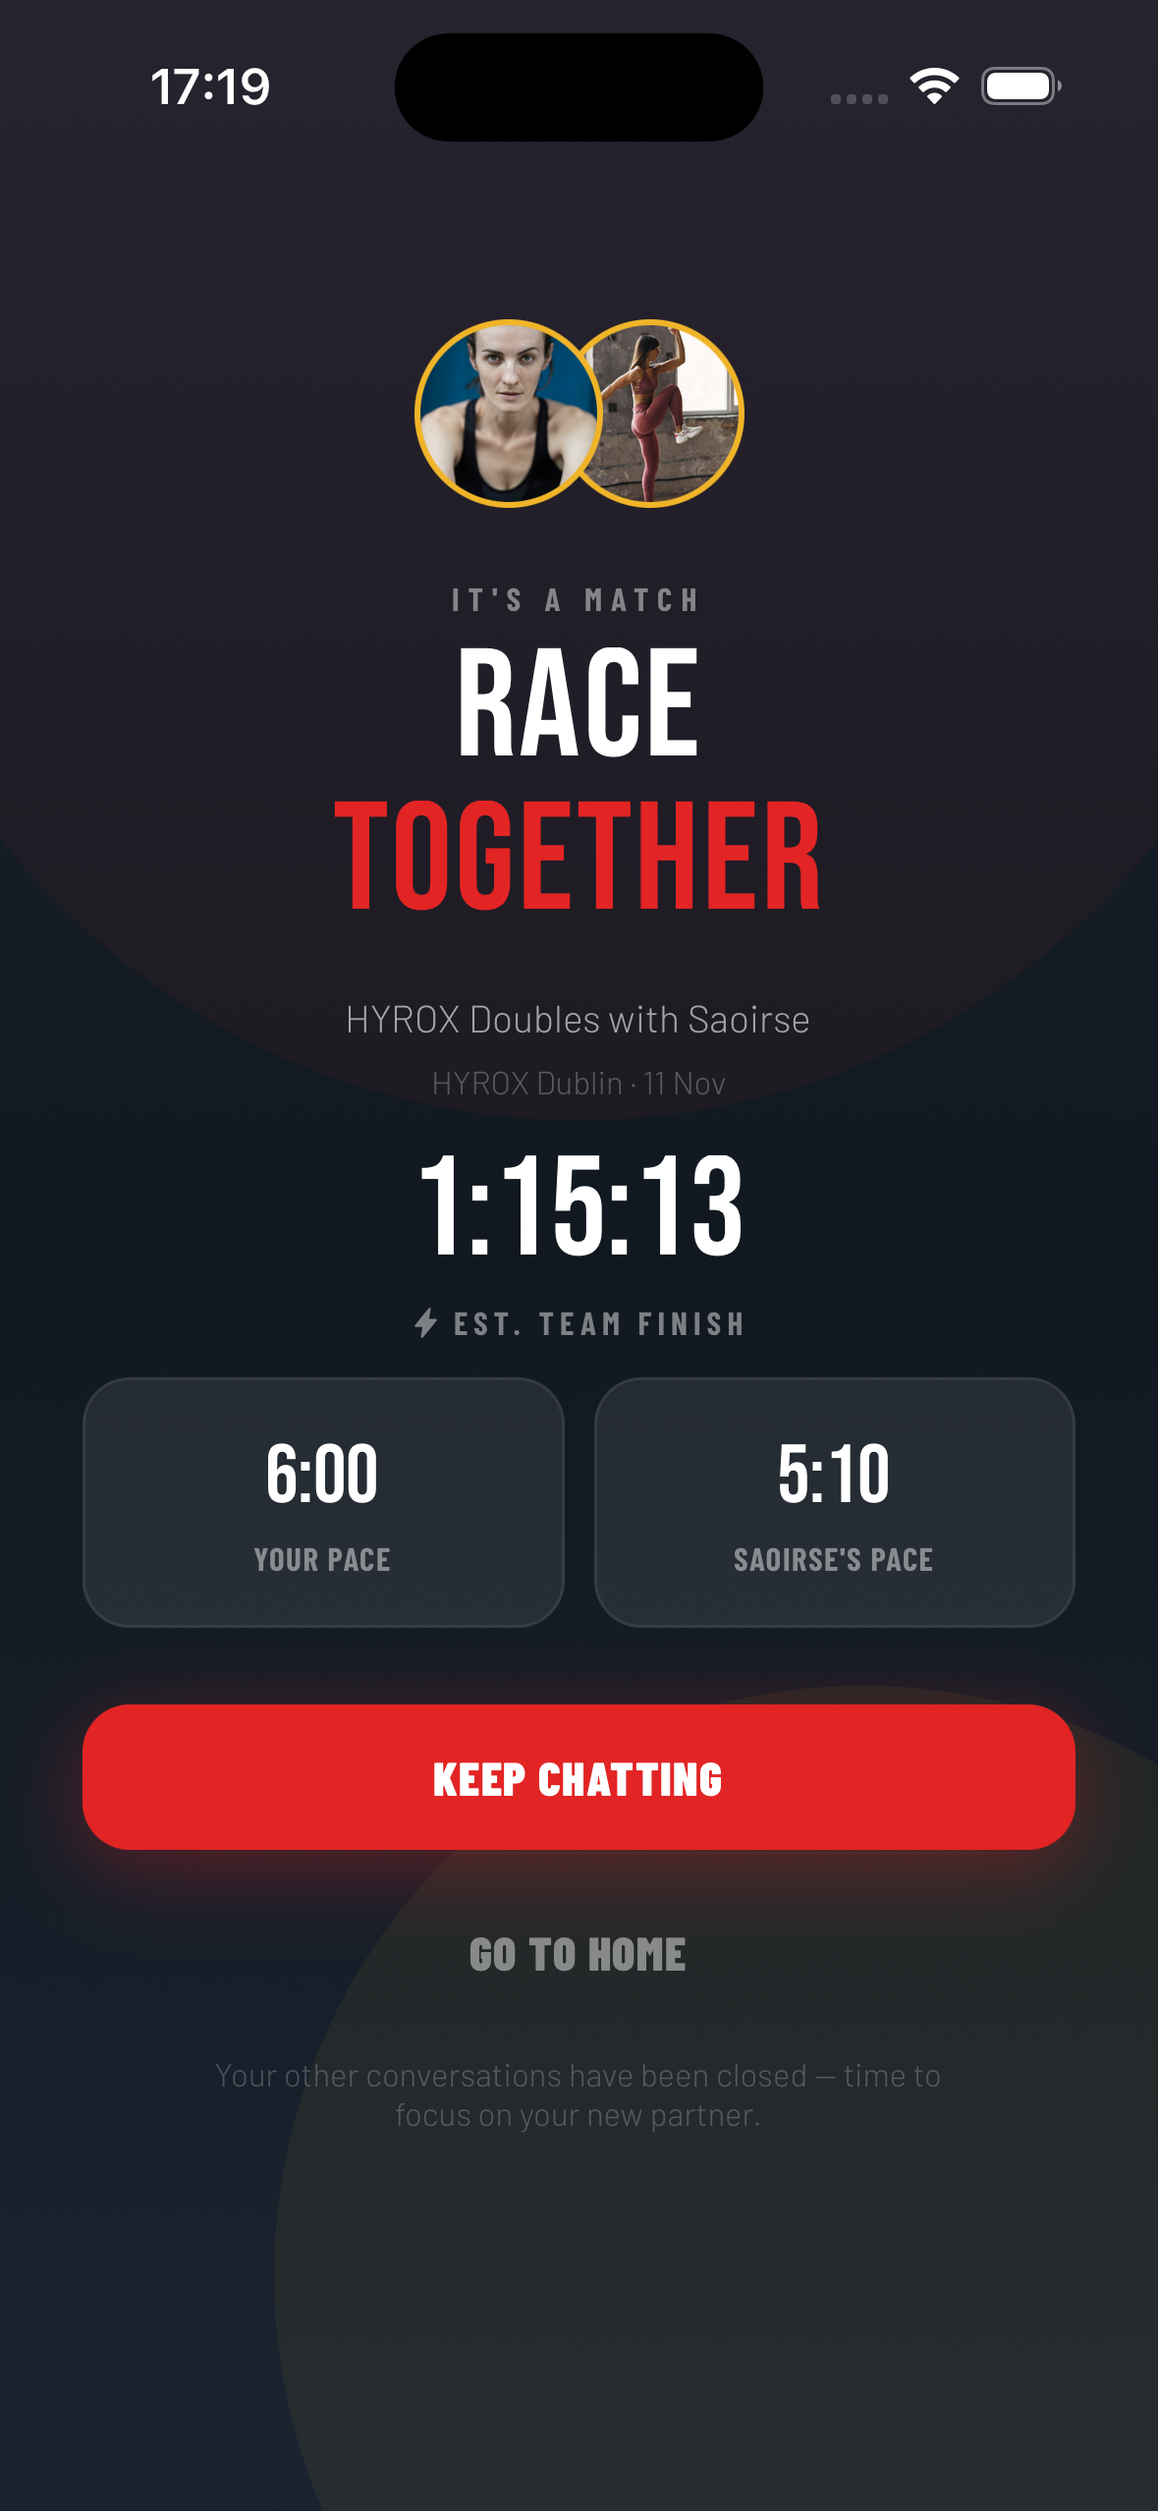
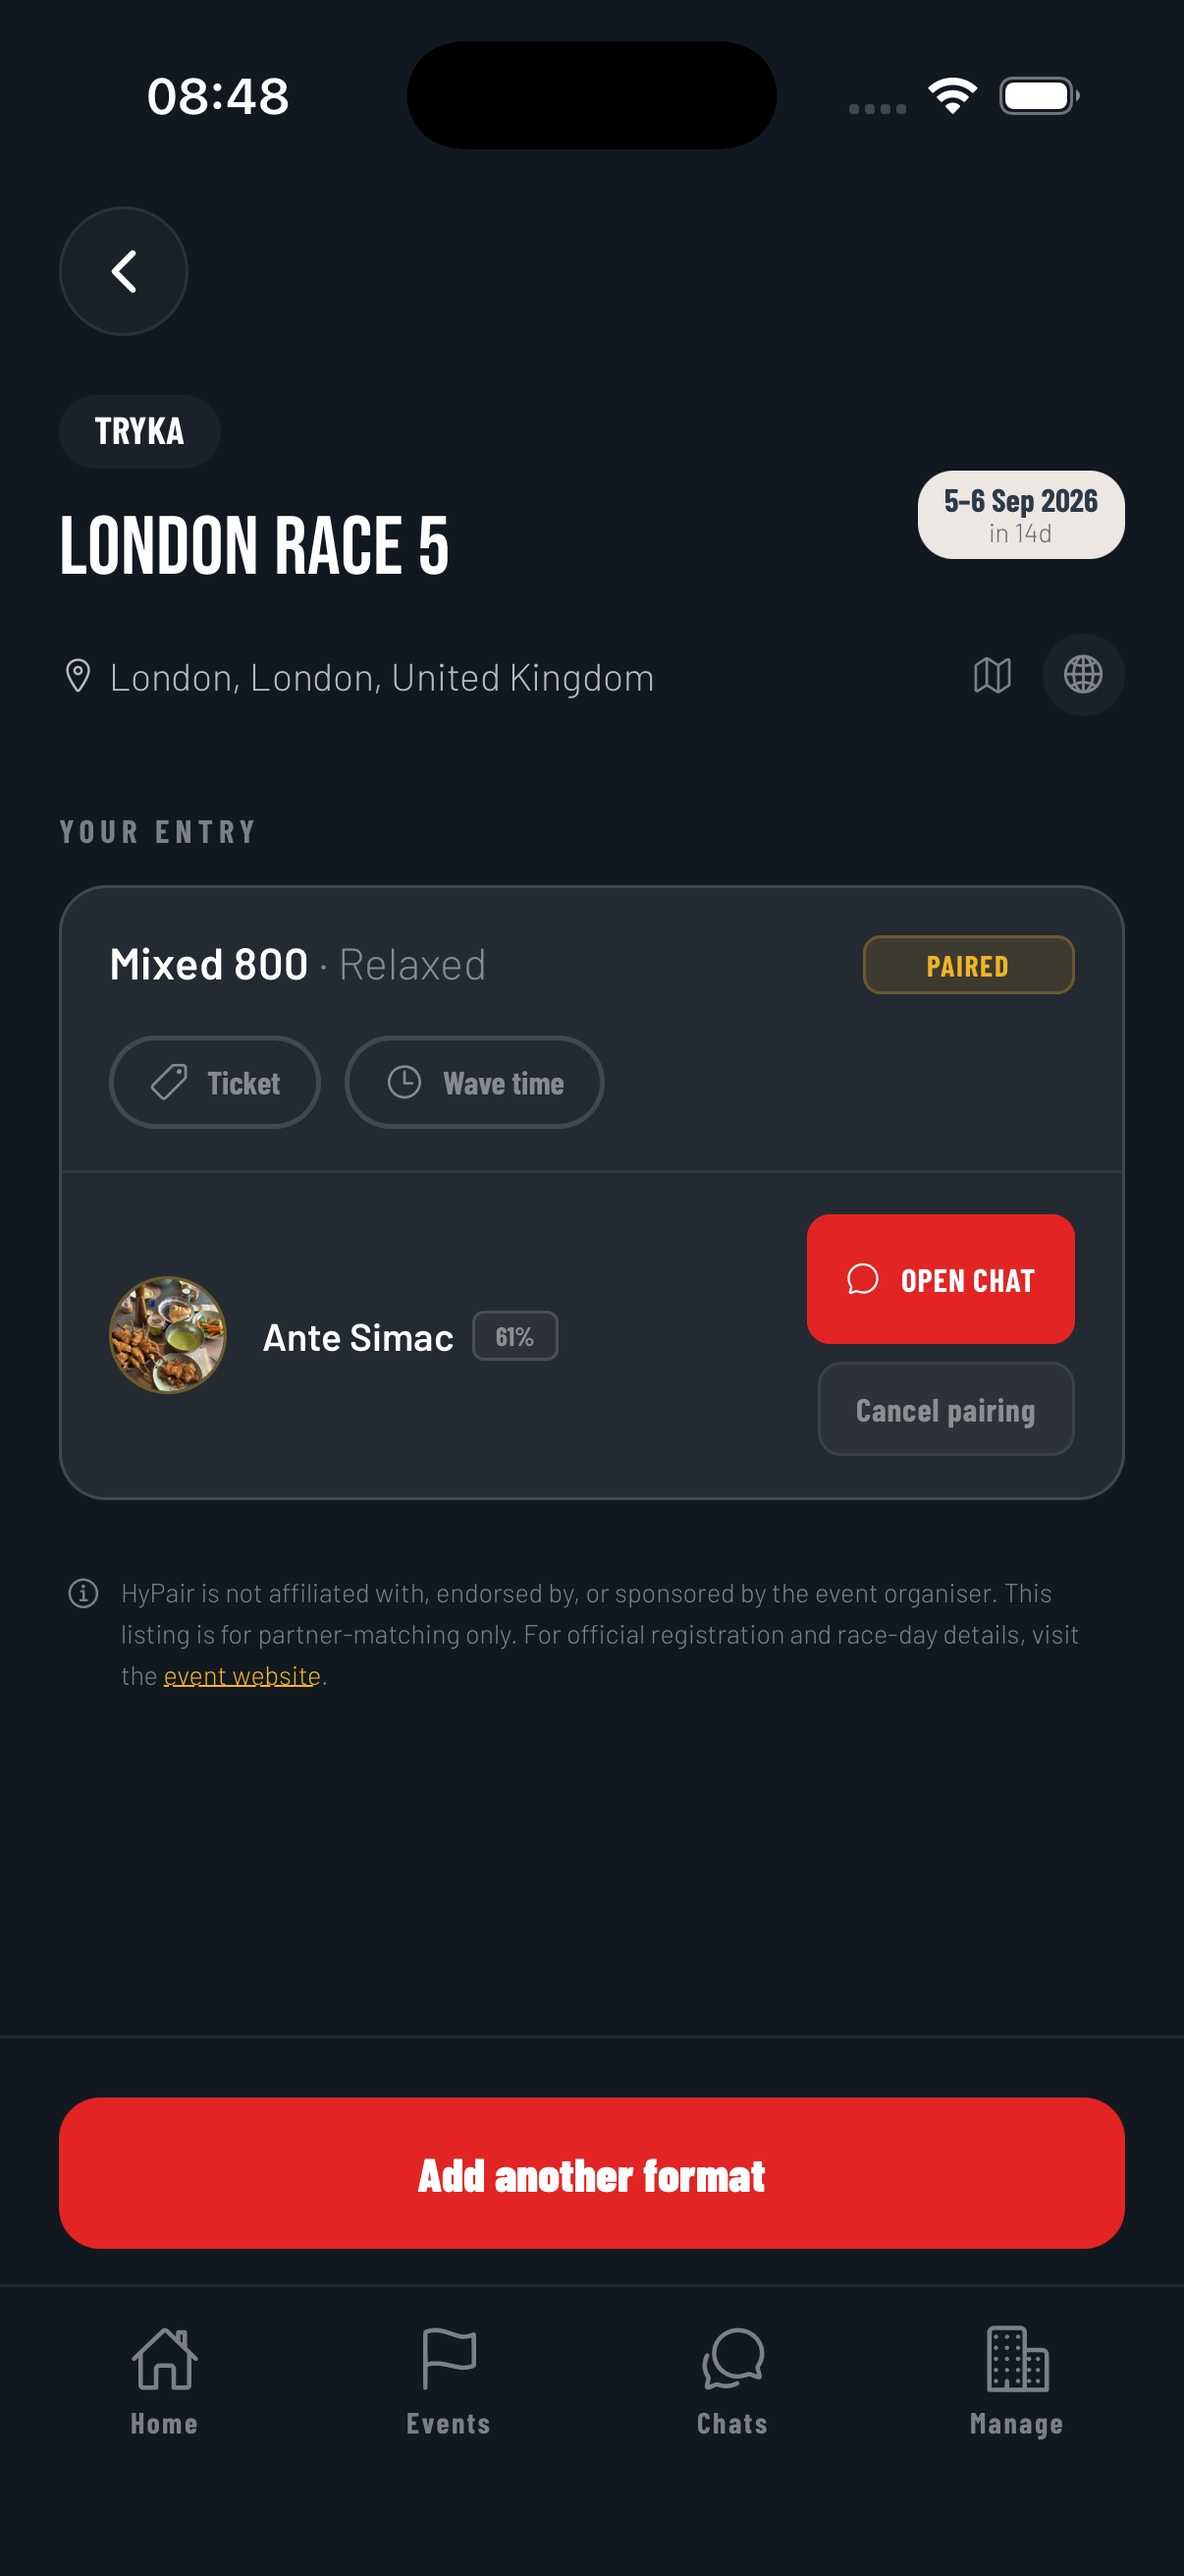
Fix event-detail screenshot, generalize FAQ date, drop arrow
event-detail.png was a duplicate of celebration.png (same "RACE TOGETHER"
screen, captured seconds apart) — replaced it with the actual event-detail
screen (ticket, wave time, paired athlete, open chat) from
HyPairApp/app-store-assets/screenshots/04-paired.png, already a polished
App Store asset for this exact scenario. Bumped its cache-busting version.

Also generalized the FAQ's "HYROX Dublin ... 11-15 November 2026" date
reference (same staleness risk already hit with the Tryka Dublin page),
and dropped the arrow from "More on listing SIM events".

diff --git a/web/index.html b/web/index.html
@@ -878,7 +878,7 @@ footer a:hover { color: var(--gold); }
   <div class="feature-row">
     <div class="feature-phone">
       <div class="phone-frame" style="width:252px;">
-        <img src="/assets/screenshots/event-detail.png?v=20260903" alt="HyPair event detail showing your entry, ticket status and active conversations">
+        <img src="/assets/screenshots/event-detail.png?v=20260905" alt="HyPair event detail showing your entry, ticket status and active conversations">
       </div>
     </div>
     <div class="feature-text">
@@ -940,7 +940,7 @@ footer a:hover { color: var(--gold); }
     </div>
     <a href="mailto:hello@hypair.app?subject=List%20our%20SIM%20event" class="second-cta-btn" style="margin-top:40px;">Email us your event</a>
     <div>
-      <a href="/for-gyms" class="gym-more-link">More on listing SIM events →</a>
+      <a href="/for-gyms" class="gym-more-link">More on listing SIM events</a>
     </div>
   </div>
 </section>
@@ -986,7 +986,7 @@ footer a:hover { color: var(--gold); }
           Is HyPair available now?
           <span class="faq-toggle">+</span>
         </div>
-        <div class="faq-a"><p>Yes — HyPair is live on the App Store now. Download it and start matching today. HYROX Dublin at the RDS runs 11–15 November 2026 — get paired before race day. Android is coming; join the waitlist above to be notified.</p></div>
+        <div class="faq-a"><p>Yes — HyPair is live on the App Store now. Download it and start matching today, whichever HYROX or Tryka event you're entering. Android is coming; join the waitlist above to be notified.</p></div>
       </div>
     </div>
   </div>
